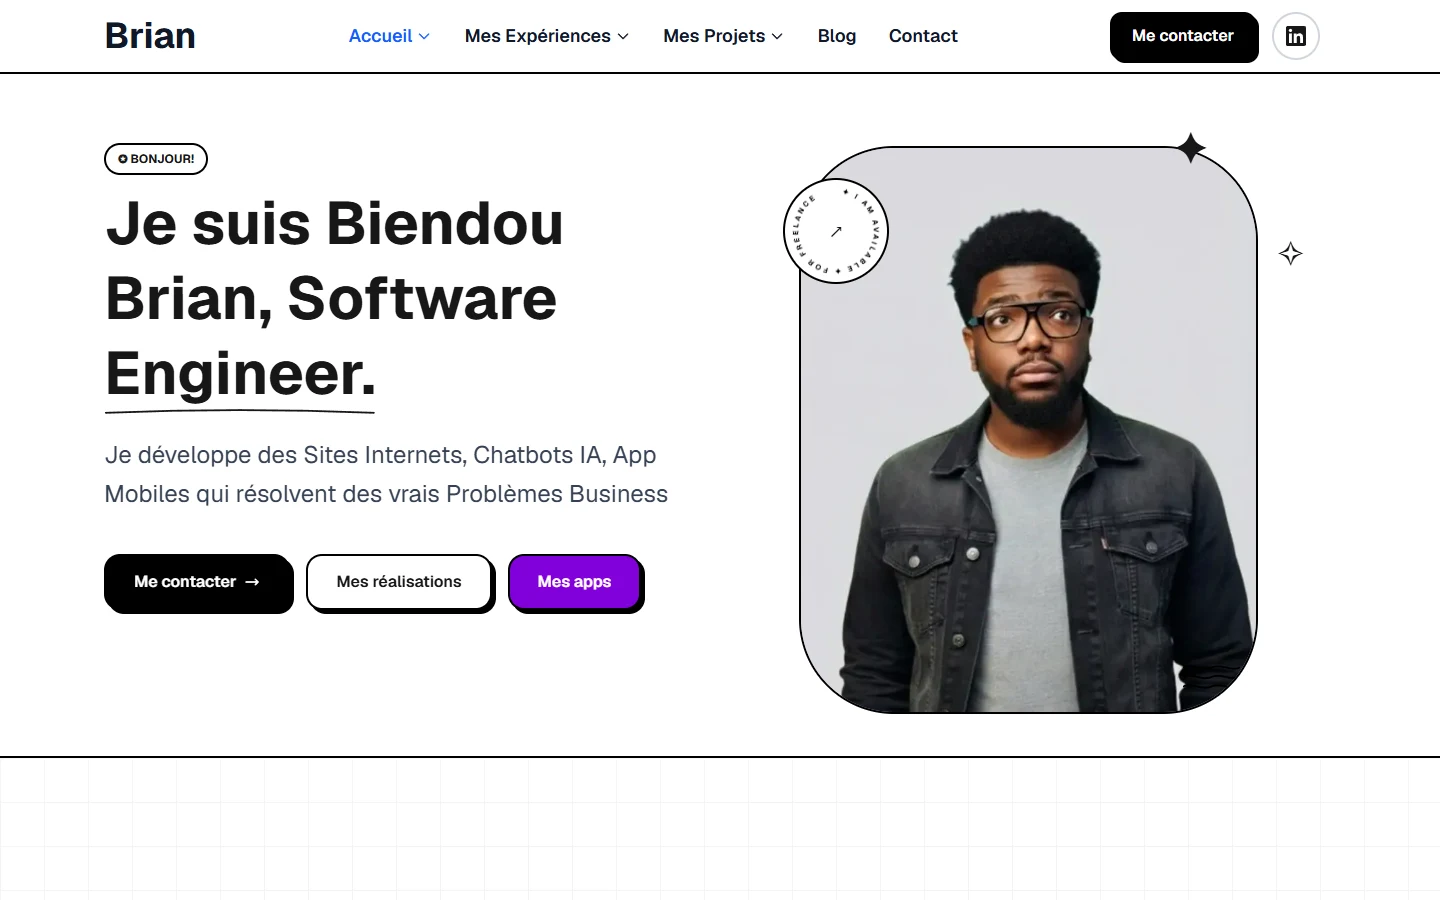
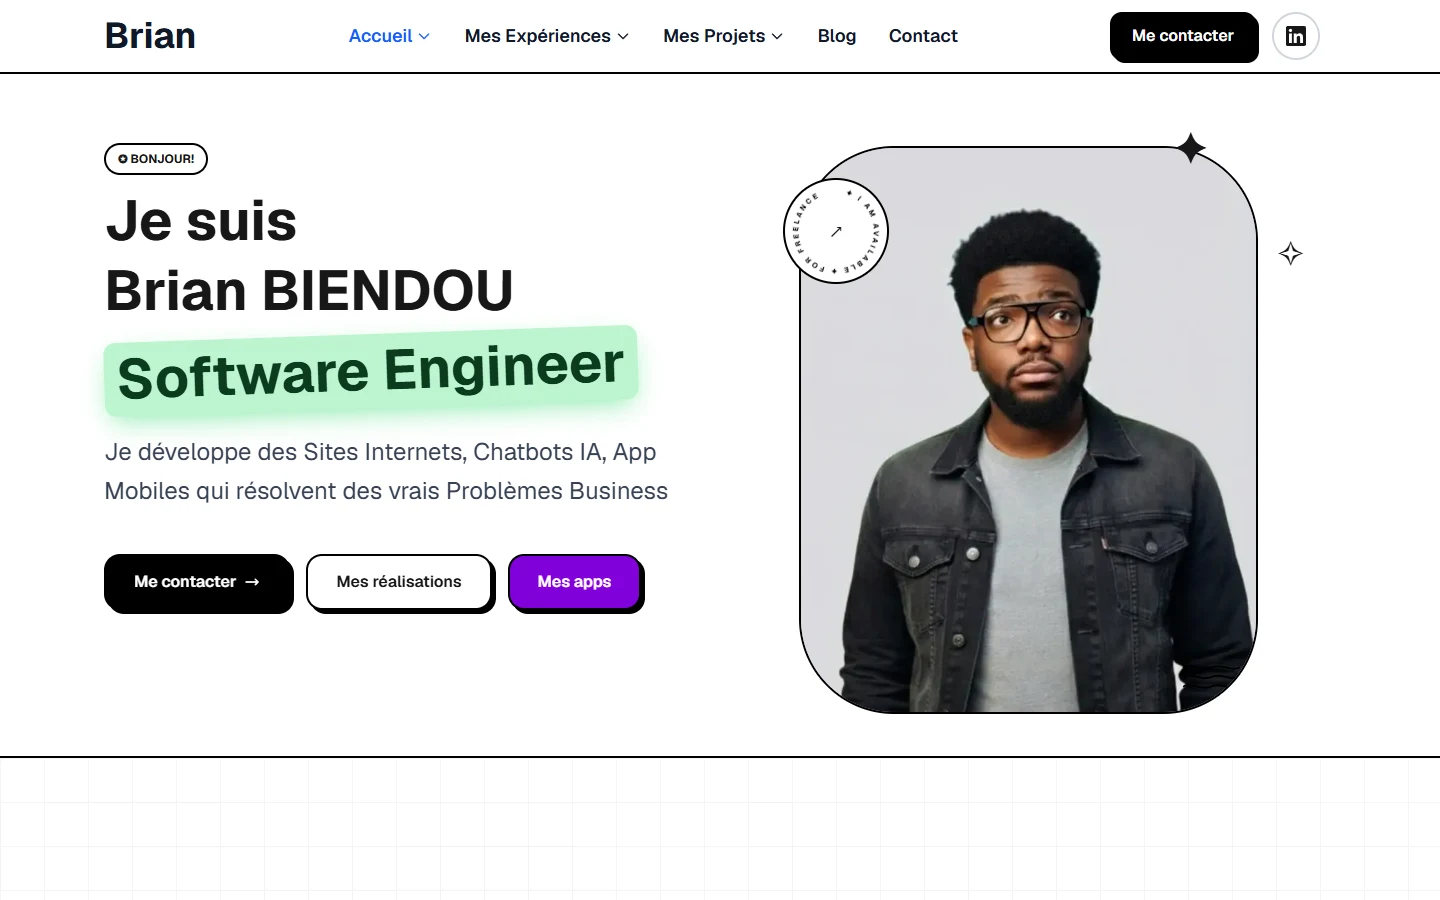
hero : titre sur trois lignes, « Software Engineer » en pastille verte
- le titre devient « Je suis / Brian BIENDOU / Software Engineer » et tient
  sur trois lignes, y compris sur un téléphone de 360 px
- « Software Engineer » est posé dans une pastille vert pastel légèrement
  inclinée, avec un halo, et ne se coupe jamais sur deux lignes

Corrigé au passage sur mobile :
- la photo du hero imposait 380 px de large et élargissait toute la page :
  le menu burger était rogné à droite. Elle suit désormais la largeur de
  l'écran, et la section rogne ses décorations au lieu de déborder
- la barre de filtres de /projets dépassait de 24 px (marge négative en trop)

Vérifié : aucun débordement horizontal sur /, /projets et /apps, à 360, 390,
1024 et 1440 px.

diff --git a/components/sections/HeroSection.tsx b/components/sections/HeroSection.tsx
@@ -2,7 +2,7 @@ import Image from 'next/image';
 
 export default function HeroSection() {
   return (
-    <section id="maison" className="bg-meelo-purple pt-[114px] pb-[114px]">
+    <section id="maison" className="bg-meelo-purple pt-[114px] pb-[114px] overflow-x-clip">
       <div className="max-w-7xl mx-auto px-6 py-8">
         <div className="flex flex-col lg:flex-row items-center lg:items-start justify-between">
           {/* Left side - Text content on desktop, Top on mobile */}
@@ -13,14 +13,12 @@ export default function HeroSection() {
               </span>
             </div>
             
-            <h1 className="text-5xl lg:text-6xl font-bold mb-6 leading-tight" style={{animation: 'fadeInLeft 1s ease-out 0.2s both'}}>
-              Je suis Biendou<br />
-              Brian, Software<br />
-              <span className="relative inline-block">
-                Engineer.
-                <svg className="absolute -bottom-1 left-0 w-full" height="8" viewBox="0 0 300 8" fill="none">
-                  <path d="M2 6C100 2 200 2 298 6" stroke="currentColor" strokeWidth="2" strokeLinecap="round"/>
-                </svg>
+            <h1 className="text-[2rem] sm:text-5xl lg:text-[3.5rem] font-bold mb-6 leading-[1.15] sm:leading-tight" style={{animation: 'fadeInLeft 1s ease-out 0.2s both'}}>
+              <span className="block">Je suis</span>
+              <span className="block whitespace-nowrap">Brian BIENDOU</span>
+              {/* Pastille vert pastel, légèrement inclinée : jamais coupée sur deux lignes */}
+              <span className="mt-2 inline-block whitespace-nowrap -rotate-2 rounded-xl bg-[#BDF5CF] px-3 py-0.5 text-[#0B3B1F] shadow-[0_10px_28px_-8px_rgba(74,222,128,0.7)]">
+                Software Engineer
               </span>
             </h1>
             
@@ -33,7 +31,7 @@ export default function HeroSection() {
           <div className="lg:w-1/2 flex justify-center relative my-8 lg:my-0">
             <div className="relative" style={{animation: 'fadeInRight 1.2s ease-out 0.3s both'}}>
               {/* Purple background with rounded corners */}
-              <div className="w-[380px] h-[470px] sm:w-[459px] sm:h-[568px] bg-[#B8A8D8] rounded-[95px] overflow-hidden relative border-2 border-black">
+              <div className="w-[min(380px,calc(100vw-4rem))] aspect-[459/568] sm:w-[459px] bg-[#B8A8D8] rounded-[95px] overflow-hidden relative border-2 border-black">
                 <Image 
                   src="/images/image_principale.webp" 
                   alt="Biendou Brian"

diff --git a/components/ProjectsExplorer.tsx b/components/ProjectsExplorer.tsx
@@ -24,7 +24,7 @@ export default function ProjectsExplorer() {
   return (
     <>
       {/* Filtres */}
-      <div className="sticky top-[72px] z-30 -mx-6 mb-14 border-y-2 border-black bg-white/90 px-6 py-3 backdrop-blur">
+      <div className="sticky top-[72px] z-30 mb-14 border-y-2 border-black bg-white/90 px-6 py-3 backdrop-blur">
         <div className="mx-auto flex max-w-7xl flex-wrap items-center gap-2.5">
           {filters.map((item) => (
             <button

diff --git a/captures/README.md b/captures/README.md
@@ -52,6 +52,7 @@ barres fixes neutralisées pour qu'elles ne se répètent pas.
 | `15-mobile-accueil-pleine-page.webp` | Accueil |
 | `16-mobile-projets-pleine-page.webp` | Mes projets |
 | `17-mobile-apps-pleine-page.webp` | Mes applications |
+| `20-mobile-hero-titre-3-lignes.webp` | Titre du hero sur trois lignes, « Software Engineer » en pastille vert pastel inclinée |
 
 ## Audit PageSpeed
 
